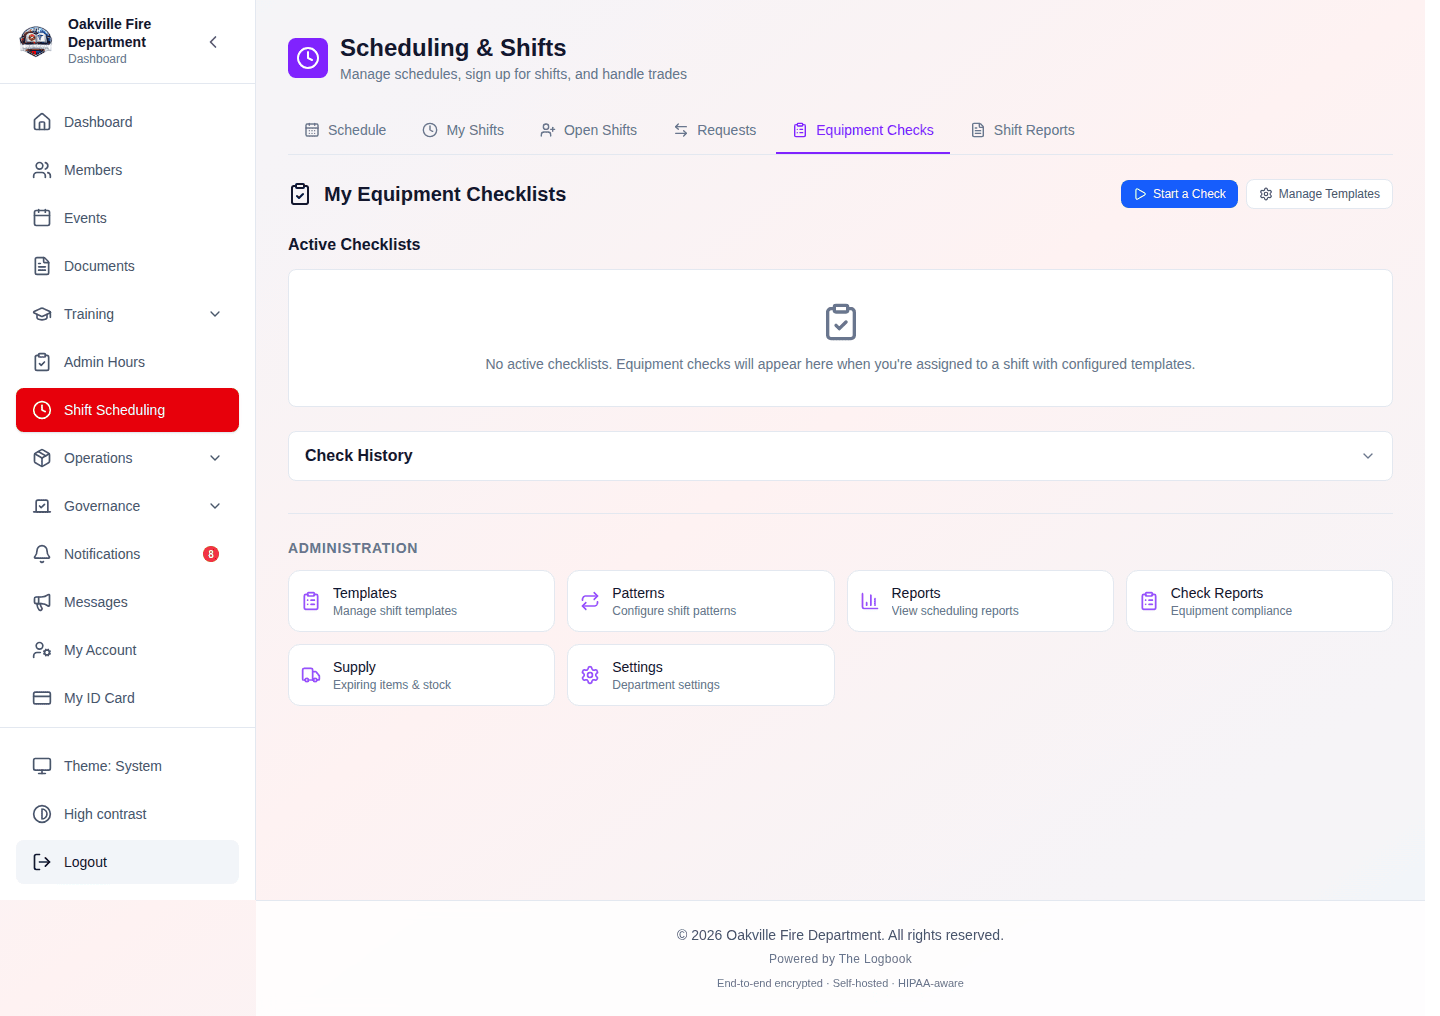
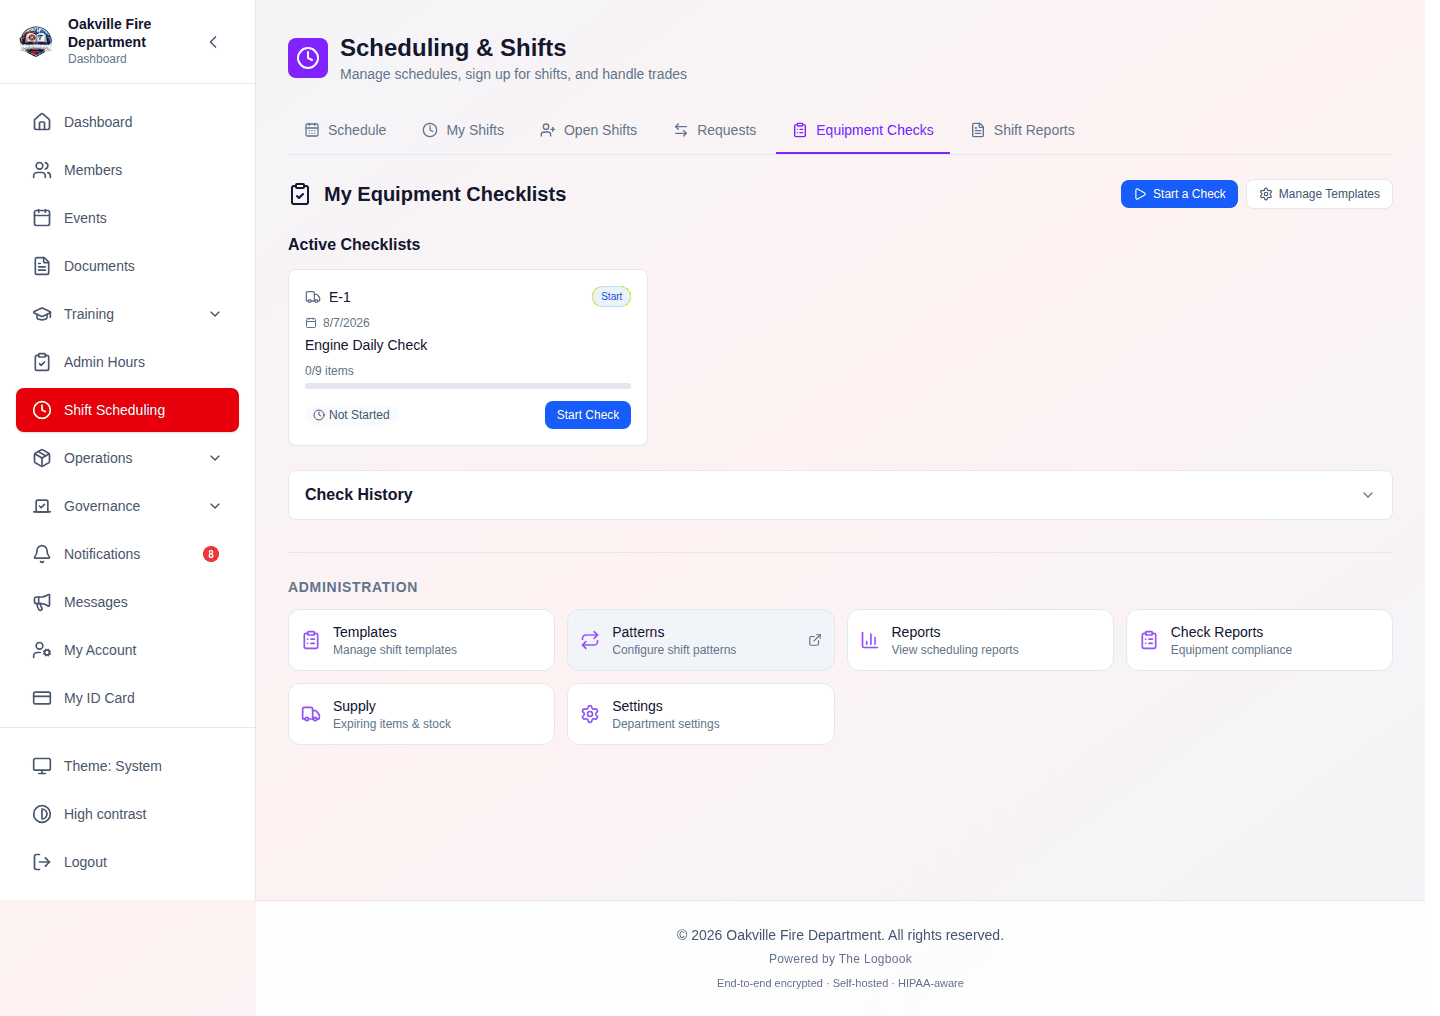
docs(screenshots): capture the equipment-check screens, and fix the demo data behind them
The equipment-check screenshots had been held back since 2026-08-06 because
submitting a check 500'd. That is fixed (#1210), so this captures them — and
fixes two seeder defects that made the captures misleading rather than merely
missing.

Verified against a real MariaDB 10.11, which is the first time this path has
been exercised end to end outside CI: submitting a check now succeeds, and the
resolved apparatus id lands in the FK column.

Seeder: stop mirroring the fleet into basic_apparatus

  The seeder created every front-line rig twice — once as a full Apparatus
  record and once in basic_apparatus — and assigned shifts the basic copy. Its
  own comment said why: "passing an apparatus-module id here fails the in-org
  check with 'Apparatus not found'". That was the SCH-6 half of the polymorphic
  apparatus-reference bug, so the workaround is now obsolete.

  It was also actively harmful. Checks recorded against the basic copy stored no
  apparatus reference, so the apparatus-compliance dashboard read "Never
  checked" for all seven units while the header claimed three checks — a
  screenshot that makes a working feature look broken.

  Shifts are now seeded through /scheduling/apparatus-options, the same endpoint
  the shift form uses, so the demo data carries the ids a real user's shift would
  carry. The demo department goes from 4 duplicate basic rows to none, and all 66
  shifts onto full Apparatus records — which also exercises the create_shift half
[…]

diff --git a/scripts/screenshots/seed_demo_data.py b/scripts/screenshots/seed_demo_data.py
@@ -659,25 +659,32 @@ class Seeder:
                 payload["template_id"] = pick(templates[0], "id")
             patterns.append(self.api.post("/scheduling/patterns", payload))
 
-        # Shifts reference the scheduling module's own lightweight apparatus
-        # table, not the full Apparatus records seeded above — passing an
-        # apparatus-module id here fails the in-org check with
-        # "Apparatus not found". Mirror the front-line fleet into it.
-        basic = items(self.api.get("/scheduling/apparatus"), "apparatus")
-        basic_units = {pick(a, "unit_number", "unitNumber") for a in basic}
-        for unit, name, _year, _make, _model, slug in APPARATUS[:4]:
-            if unit in basic_units:
-                continue
-            basic.append(
-                self.api.post(
-                    "/scheduling/apparatus",
-                    {
-                        "unit_number": unit,
-                        "name": name,
-                        "apparatus_type": slug,
-                        "min_staffing": 2 if slug in ("ambulance", "utility") else 3,
-                    },
-                )
+        # Ask the same endpoint the shift form asks. /apparatus-options resolves
+        # the department's fleet with a documented priority — full Apparatus
+        # module records first, the lightweight basic_apparatus table second,
+        # hardcoded type defaults last — so seeding through it produces the ids a
+        # real user's shift would carry.
+        #
+        # This used to mirror the fleet into basic_apparatus instead, because
+        # passing a full-Apparatus id to create_shift failed the in-org check
+        # with "Apparatus not found". That was the SCH-6 half of the polymorphic
+        # apparatus-reference bug, fixed 2026-08-08 (see
+        # app/utils/apparatus_ref.py). The mirror is no longer needed and was
+        # actively harmful: it created a second copy of every front-line rig, so
+        # the demo department had E-1 twice under different ids, and equipment
+        # checks recorded against the basic copy left the apparatus-compliance
+        # dashboard reading "Never checked" for every unit.
+        options = items(
+            self.api.get("/scheduling/apparatus-options"), "options", "apparatus"
+        )
+        fleet = [o for o in options if pick(o, "id")]
+        if not fleet:
+            # Only reachable when the department has neither inventory — the
+            # endpoint then serves hardcoded type defaults, which carry no id
+            # and cannot be assigned to a shift.
+            self.blocked.append(
+                "scheduling: /scheduling/apparatus-options returned no "
+                "identifiable apparatus, so shifts were seeded without one"
             )
 
         shifts = items(self.api.get("/scheduling/shifts?limit=200"), "shifts")
@@ -690,6 +697,29 @@ class Seeder:
         station_id = pick(stations[0], "id") if stations else None
         member_ids = [pick(m, "id") for m in members if pick(m, "id")]
         officers = member_ids[:8]
+        admin_id = next(
+            (
+                pick(m, "id")
+                for m in members
+                if pick(m, "username") == DEMO_ADMIN_USERNAME
+            ),
+            None,
+        )
+        # Which of today's shifts to put the administrator on. The demo's only
+        # equipment-check template targets the "engine" apparatus type, and a
+        # checklist resolves by type — so crewing them onto the brush truck
+        # produces a shift with no checklist, which is exactly the empty screen
+        # this is meant to avoid. Prefer an engine; fall back to the first unit
+        # so a fleet without one still gets an assignment.
+        admin_slot = next(
+            (
+                i
+                for i, unit in enumerate(fleet[:3])
+                if (pick(unit, "apparatus_type", "apparatusType") or "").lower()
+                == "engine"
+            ),
+            0,
+        )
 
         # Two weeks either side of today: the calendar, "my shifts", and the
         # open-shifts list each need past and future rows to look real.
@@ -701,7 +731,7 @@ class Seeder:
             rotation = offset % max(1, len(member_ids))
             day_pool = member_ids[rotation:] + member_ids[:rotation]
             pool_cursor = 0
-            for index, unit in enumerate(basic[:3]):
+            for index, unit in enumerate(fleet[:3]):
                 apparatus_id = pick(unit, "id")
                 if (shift_date, apparatus_id) in existing_keys:
                     continue
@@ -753,10 +783,28 @@ class Seeder:
                             "position": "officer" if slot == 0 else "firefighter",
                         },
                     )
+
+                # Put the demo administrator on today's first shift. Several
+                # member-facing screens — "My Shifts" and, in particular, "My
+                # Equipment Checklists" — are scoped to the signed-in user's own
+                # assignments, and the screenshot pipeline signs in as the
+                # administrator. Without this they capture an empty state that
+                # reads as though the feature does nothing.
+                if offset == 0 and index == admin_slot and admin_id:
+                    try:
+                        self.api.post(
+                            f"/scheduling/shifts/{shift_id}/assignments",
+                            {"user_id": admin_id, "position": "officer"},
+                        )
+                    except ApiError as exc:
+                        # Already assigned on a re-run, or the API declined the
+                        # slot — neither is worth failing the whole seed over.
+                        if exc.code not in (400, 409):
+                            raise
         return {
             "templates": templates,
             "patterns": patterns,
-            "apparatus": basic,
+            "apparatus": fleet,
             "shifts": shifts,
         }
 
@@ -1386,11 +1434,18 @@ class Seeder:
             return {"templates": templates, "checks": checks}
 
         # One deficiency across the set, so the compliance view has something
-        # other than a wall of green to show.
-        submitted[-1]["status"] = "fail"
-        submitted[-1]["quantity_found"] = 0
+        # other than a wall of green to show — but only one, so it does not read
+        # as a fleet-wide failure. This previously mutated the shared item list
+        # before the loop, which applied the deficiency to *every* check and left
+        # the compliance dashboard reporting a 0% pass rate.
+        def items_for(index: int) -> list[dict]:
+            rows = [dict(row) for row in submitted]
+            if index == len(target_shifts) - 1:
+                rows[-1]["status"] = "fail"
+                rows[-1]["quantity_found"] = 0
+            return rows
 
-        for shift in target_shifts:
+        for shift_index, shift in enumerate(target_shifts):
             # This used to swallow a 500 and record a blocker: submitting a check
             # for any shift with an apparatus assigned failed the FK constraint
             # on `shift_equipment_checks.apparatus_id`. Fixed 2026-08-08 by
@@ -1399,12 +1454,13 @@ class Seeder:
             # and is deliberately left to raise — a silent skip here is how the
             # equipment-check screenshots went unfilled for two days without
             # anyone noticing the feature was broken.
+            shift_items = items_for(shift_index)
             check = self.api.post(
                 f"/equipment-checks/shifts/{pick(shift, 'id')}/checks",
                 {
                     "template_id": template_id,
                     "check_timing": "start_of_shift",
-                    "items": submitted,
+                    "items": shift_items,
                 },
             )
             checks.append(check)
@@ -1414,7 +1470,7 @@ class Seeder:
                 try:
                     self.api.put(
                         f"/equipment-checks/checks/{check_id}/complete",
-                        {"items": submitted},
+                        {"items": shift_items},
                     )
                 except ApiError as exc:
                     if exc.code not in (400, 409):

diff --git a/docs/KNOWN_LIMITATIONS.md b/docs/KNOWN_LIMITATIONS.md
@@ -34,10 +34,11 @@ here.
 
 ## Authentication & Security
 
-| Item                                            | Status                            | Detail                                                                                                                                                                                                                                                                                                                                                                                                                                                                                                            |
-| ----------------------------------------------- | --------------------------------- | ----------------------------------------------------------------------------------------------------------------------------------------------------------------------------------------------------------------------------------------------------------------------------------------------------------------------------------------------------------------------------------------------------------------------------------------------------------------------------------------------------------------- |
-| **CSRF "no csrf cookie → allow" branch**        | ✅ Resolved (verified 2026-08-07) | The branch was tightened and this row had not been updated. `verify_csrf_token` now splits the no-cookie case: a request carrying an `access_token` cookie but no `csrf_token` is **rejected** (403 "Missing CSRF token") as anomalous, and only a request with no session cookie at all — unauthenticated, or a Bearer client whose header browsers never auto-send and which is therefore not CSRF-exploitable — is allowed through. `SameSite=Strict` remains the primary defense. (`security_middleware.py`.) |
-| **`is_rate_limited` window write-before-check** | Verify (MED)                      | The sliding-window limiter records the request _before_ the count comparison; confirm this matches intended semantics (off-by-one on the first over-limit request). (`security.py`.)                                                                                                                                                                                                                                                                                                                              |
+| Item                                                               | Status                            | Detail                                                                                                                                                                                                                                                                                                                                                                                                                                                                                                                                                                                                                                                                                                                                                                                                                                                                                   |
+| ------------------------------------------------------------------ | --------------------------------- | ---------------------------------------------------------------------------------------------------------------------------------------------------------------------------------------------------------------------------------------------------------------------------------------------------------------------------------------------------------------------------------------------------------------------------------------------------------------------------------------------------------------------------------------------------------------------------------------------------------------------------------------------------------------------------------------------------------------------------------------------------------------------------------------------------------------------------------------------------------------------------------------- |
+| **CSRF "no csrf cookie → allow" branch**                           | ✅ Resolved (verified 2026-08-07) | The branch was tightened and this row had not been updated. `verify_csrf_token` now splits the no-cookie case: a request carrying an `access_token` cookie but no `csrf_token` is **rejected** (403 "Missing CSRF token") as anomalous, and only a request with no session cookie at all — unauthenticated, or a Bearer client whose header browsers never auto-send and which is therefore not CSRF-exploitable — is allowed through. `SameSite=Strict` remains the primary defense. (`security_middleware.py`.)                                                                                                                                                                                                                                                                                                                                                                        |
+| **Two logins by the same user in the same second fail with a 500** | Open (MED — found 2026-08-08)     | `create_access_token` encodes only `{sub, exp, iat, type}` — no `jti` or nonce — and `exp`/`iat` serialize to whole seconds. Two logins by one user inside the same second therefore produce a **byte-identical** JWT, which collides with the unique `ix_sessions_token` index and surfaces as `IntegrityError` → HTTP 500. A human cannot normally type fast enough, but automation can: the screenshot pipeline hits it every time `bootstrap_demo.py` and `seed_demo_data.py` run back to back, and a double-submitted login form or two tabs restoring at once would do the same. Found while capturing the equipment-check screenshots. Adding a `jti` would fix it, but token generation is security-sensitive and deserves a considered change rather than an incidental one — the fallback question is whether a duplicate token should 500 or resolve to the existing session. |
+| **`is_rate_limited` window write-before-check**                    | Verify (MED)                      | The sliding-window limiter records the request _before_ the count comparison; confirm this matches intended semantics (off-by-one on the first over-limit request). (`security.py`.)                                                                                                                                                                                                                                                                                                                                                                                                                                                                                                                                                                                                                                                                                                     |
 
 ## Dependencies
 

diff --git a/docs/training/SCREENSHOT_STATUS.md b/docs/training/SCREENSHOT_STATUS.md
@@ -4,28 +4,27 @@ Which training-guide screenshot placeholders have been captured. Generated
 by `scripts/screenshots/status_report.py`; see that directory's README for
 how to capture more.
 
-**123 of 462 placeholders filled** (339 remaining).
+**124 of 467 placeholders filled** (343 remaining).
 
-| Guide | Captured | Remaining |
-|-------|---------:|----------:|
-| [00-getting-started.md](./00-getting-started.md) | 4 | 8 |
-| [01-membership.md](./01-membership.md) | 7 | 22 |
-| [02-training.md](./02-training.md) | 12 | 66 |
-| [03-scheduling.md](./03-scheduling.md) | 11 | 57 |
-| [04-events-meetings.md](./04-events-meetings.md) | 10 | 28 |
-| [05-inventory.md](./05-inventory.md) | 15 | 38 |
-| [06-apparatus-facilities.md](./06-apparatus-facilities.md) | 9 | 11 |
-| [07-documents-forms.md](./07-documents-forms.md) | 7 | 6 |
-| [08-admin-reports.md](./08-admin-reports.md) | 9 | 31 |
-| [09-skills-testing.md](./09-skills-testing.md) | 3 | 8 |
-| [10-mobile-pwa.md](./10-mobile-pwa.md) | 3 | 9 |
-| [11-finance.md](./11-finance.md) | 8 | 9 |
-| [12-grants-fundraising.md](./12-grants-fundraising.md) | 9 | 5 |
-| [13-medical-screening.md](./13-medical-screening.md) | 5 | 5 |
-| [14-elections.md](./14-elections.md) | 3 | 12 |
-| [15-prospective-members.md](./15-prospective-members.md) | 3 | 10 |
-| [16-integrations.md](./16-integrations.md) | 1 | 11 |
-| [17-privacy-data-rights.md](./17-privacy-data-rights.md) | 1 | 1 |
-| [18-storefront.md](./18-storefront.md) | 3 | 2 |
-| **Total** | **123** | **339** |
-
+| Guide                                                      | Captured | Remaining |
+| ---------------------------------------------------------- | -------: | --------: |
+| [00-getting-started.md](./00-getting-started.md)           |        4 |         8 |
+| [01-membership.md](./01-membership.md)                     |        7 |        22 |
+| [02-training.md](./02-training.md)                         |       12 |        66 |
+| [03-scheduling.md](./03-scheduling.md)                     |       12 |        56 |
+| [04-events-meetings.md](./04-events-meetings.md)           |       10 |        28 |
+| [05-inventory.md](./05-inventory.md)                       |       15 |        38 |
+| [06-apparatus-facilities.md](./06-apparatus-facilities.md) |        9 |        11 |
+| [07-documents-forms.md](./07-documents-forms.md)           |        7 |         6 |
+| [08-admin-reports.md](./08-admin-reports.md)               |        9 |        33 |
+| [09-skills-testing.md](./09-skills-testing.md)             |        3 |        10 |
+| [10-mobile-pwa.md](./10-mobile-pwa.md)                     |        3 |        10 |
+| [11-finance.md](./11-finance.md)                           |        8 |         9 |
+| [12-grants-fundraising.md](./12-grants-fundraising.md)     |        9 |         5 |
+| [13-medical-screening.md](./13-medical-screening.md)       |        5 |         5 |
+| [14-elections.md](./14-elections.md)                       |        3 |        12 |
+| [15-prospective-members.md](./15-prospective-members.md)   |        3 |        10 |
+| [16-integrations.md](./16-integrations.md)                 |        1 |        11 |
+| [17-privacy-data-rights.md](./17-privacy-data-rights.md)   |        1 |         1 |
+| [18-storefront.md](./18-storefront.md)                     |        3 |         2 |
+| **Total**                                                  |  **124** |   **343** |

diff --git a/docs/training/03-scheduling.md b/docs/training/03-scheduling.md
@@ -722,8 +722,7 @@ Navigate to **Scheduling > Equipment Check Reports** to view three report tabs:
 
 Reports can be exported as **CSV** or **PDF**.
 
-> **Screenshot needed:**
-> _[Screenshot of the Equipment Check Reports page showing the Compliance Dashboard tab with apparatus cards showing pass rates (e.g., "Engine 1: 98% pass rate"), and the tab bar showing Compliance / Failures / Trends]_
+![Equipment Check Reports page with the compliance dashboard](./images/03-24-equipment-check-reports.png)
 
 #### Equipment Check Edge Cases
 
